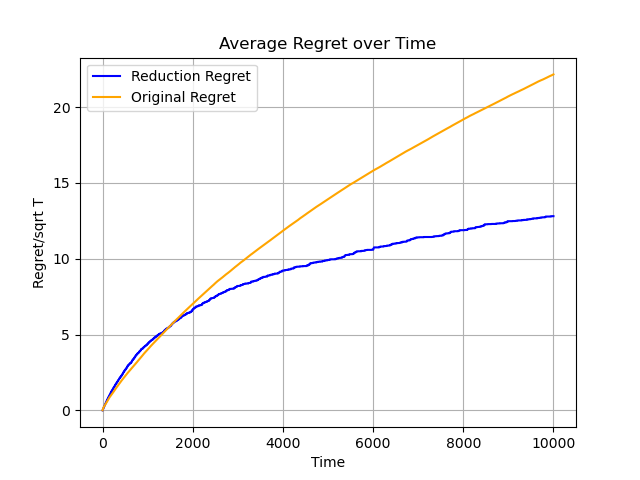
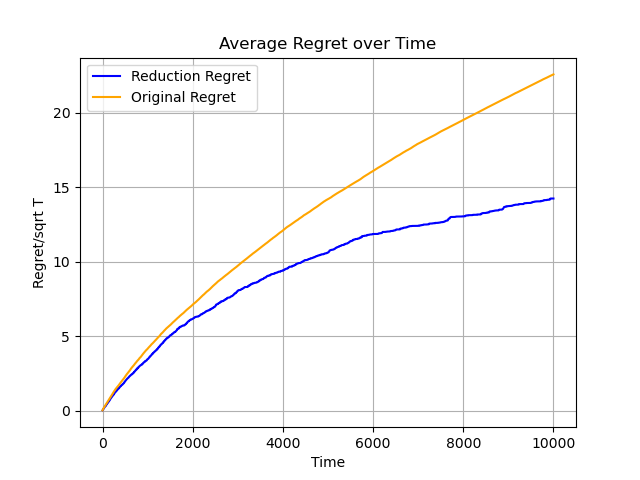
modify plot

diff --git a/average_regret2.py b/average_regret2.py
@@ -20,27 +20,28 @@ class linBand():
         self.b = np.zeros(self.n_features)
         self.X = action_set
 
-    '''
-    UCB():
-        @param:
-            x: an action
-        output: return the reward of the input action by Upper-confidence-bound method
-    '''
     def UCB(self, x):
+        '''
+        UCB():
+            @param:
+            x: an action
+            output: return the reward of the input action by Upper-confidence-bound method
+        '''
         x_transpose = np.transpose(x)
         product = np.dot(x_transpose, self.theta_hat)
         sqrt_term = np.sqrt(np.dot(np.dot(x_transpose, self.v_inv), x))
         ucb = product + 4 * sqrt_term * math.log(self.T)
         return ucb
 
-    '''
-    run():
-        @param:
-            action_set(optional): only the original algorithm  will provide action_set
 
-        output: return the selected action by calling UCB() method
-    '''
     def run(self, action_set=None):
+        '''
+        run():
+            @param:
+                action_set(optional): only the original algorithm  will provide action_set
+
+            output: return the selected action by calling UCB() method
+        '''
         if action_set is not None:
                 self.X = action_set
         idx = np.argmax([self.UCB(x) for x in self.X])
@@ -48,26 +49,26 @@ class linBand():
         self.x_t = self.X[idx]
         return self.x_t
         
-    '''
-    feed_reward():
-        @param: 
-            r_t: reward for the current action 
 
-        output: update v, b, and theta_hat; no return  
-    '''
     def feed_reward(self, r_t):
+        '''
+        feed_reward():
+            @param: 
+            r_t: reward for the current action 
+            output: update v, b, and theta_hat; no return  
+        '''
         self.v += np.outer(self.x_t, self.x_t)
         self.v_inv = np.linalg.inv(self.v)
         self.b += self.x_t * r_t
         self.theta_hat = np.linalg.lstsq(self.v, self.b, rcond=None)[0]
 
 
-'''
-g_theta(theta): Reduction Algorithm 
-    @param: theta 
-    output: to generate fix action set
-'''
 def g_theta(theta):
+    '''
+    g_theta(theta): Reduction Algorithm 
+        @param: theta 
+        output: to generate fix action set
+    '''
     # initialize g_theta
     g_theta = np.zeros(n_features)
     # iterate through each arm in action_sets
@@ -78,19 +79,18 @@ def g_theta(theta):
         g_theta += action_sets[i][best_action] * (1 / num_action_list)
     return g_theta
 
-'''
-g_theta_inverse(x_t, X_): 
-    @param: x_t, X_
-        x_t: g(theta) 
-        X_:  look-up table
-    output: the theta that's associated with g(theta)
-'''
 def g_theta_inverse(x_t, X_):
+    '''
+    g_theta_inverse(x_t, X_): 
+        @param: x_t, X_
+            x_t: g(theta) 
+            X_:  look-up table
+        output: the theta that's associated with g(theta)
+    '''
     for v, g in X_:
         if np.array_equal(g, x_t):
             return v
     return None
-
 
 
 # reg1: the regret of reduction algorithm 
@@ -99,7 +99,7 @@ reg1 = 0
 reg2 = 0
 T = 10000
 
-iterations = 1
+iterations = 3
 
 list_reg1 = []
 list_reg2 = []

diff --git a/linbandit.py b/linbandit.py
@@ -9,7 +9,6 @@ np.random.seed(42)
 action_sets = np.random.normal(0, 1, (num_action_list, n_arms, n_features))
 theta_capital = np.random.normal(0, 1, (n_theta, n_features))
 
-
 # Normalize the action_sets array in place
 for i in range(num_action_list):
     for arm in range(n_arms):
@@ -46,7 +45,6 @@ print()
 def update_v_pi(pi, A):
     v_pi = 0.001*np.eye(n_features)
     for i in range(len(A)):
-        # v_pi += A[i] * A[i].reshape(-1, 1) * pi[i] 
         v_pi += np.outer(A[i], A[i]) * pi[i] 
     return v_pi
 
@@ -63,8 +61,6 @@ def g_optimal_design(A):
         # find ak
         idx = np.argmax([np.dot(np.dot(a.T, np.linalg.inv(v_pi)), a)for a in A])
         a_k = A[idx]
-        # print('here is a_k')
-        # print(a_k)
 
         # find gamma_k 
         numerator= (1/n_features) * np.dot(np.dot(a_k.T, np.linalg.inv(v_pi)), a_k) - 1
@@ -74,8 +70,6 @@ def g_optimal_design(A):
         #update pi
         pi *= (1-gamma_k) 
         pi[idx] += gamma_k
-        # print('here is pi:')
-        # print(pi)
 
         #update v_pi:
         v_pi = update_v_pi(pi, A) 
@@ -89,8 +83,6 @@ reg = 0
 while t < T:
     # step 1
     pi = g_optimal_design(A1)
-    # print("here is pi")
-    # print(pi)
     epsilon_l = 2 ** (-l)
 
     # step 2
@@ -105,9 +97,6 @@ while t < T:
             V_l += np.outer(A1[j], A1[j]) * T_l[j]
         
         
-
-
-
         temp = np.zeros(n_features)
         for _ in range(T_l[i]):
             noise = np.random.normal(0.0, 1.0)
@@ -115,7 +104,6 @@ while t < T:
             t+=1
             # if t exceeds the number of trials, stops here
             if t >= T:
-                print('t is larger than T. Maybe T should be set larger')
                 break
             optimal_reward = max([np.dot(np.transpose(a), theta_star) for a in A1])
             # print(f"best reward: {optimal_reward}")
@@ -125,11 +113,9 @@ while t < T:
 
         if t >= T:
             break
-        # print(V_l_inverse)
-        # print(temp)
+
         V_l_inverse = np.linalg.inv(V_l)
         theta_hat =  np.dot(V_l_inverse, temp.reshape(-1, 1)).reshape(1, -1)
-        # print(r_t)
 
         # step 5
         res = []
@@ -141,11 +127,12 @@ while t < T:
         
         A1 = np.array(res)
 
-    if len(A1) == 1:
-        print('A1 is one now: ', t)
-        break
+        if len(A1) == 1:
+            print('A1 is one now: ', t)
+            break
     print("A1 is updated")
     print(A1)
+    
     # step 6 
     l += 1
 
@@ -157,5 +144,3 @@ while t<T:
     reg += optimal_reward - np.dot(np.transpose(A1[0]), theta_star)
     print(f'the reg is {reg/(math.sqrt(T) * math.log(T))}')
     t+=1
-
-print(A1)
